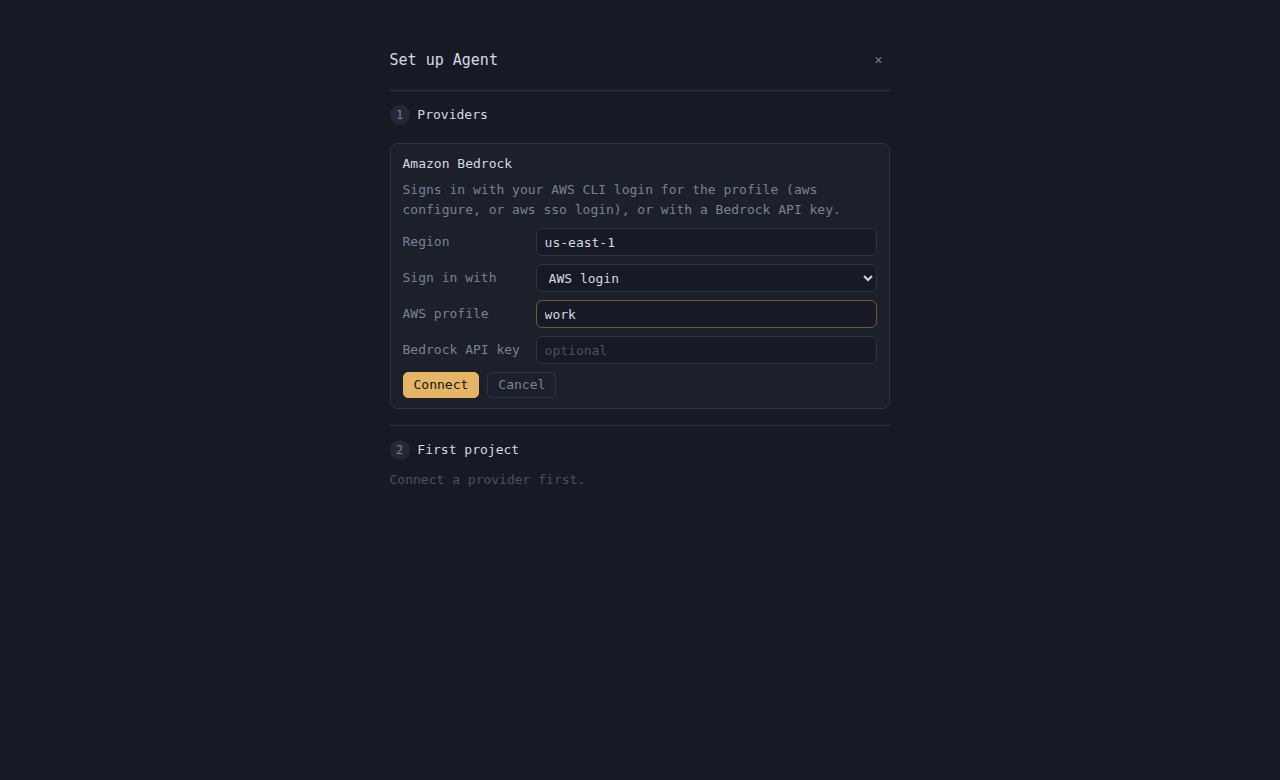
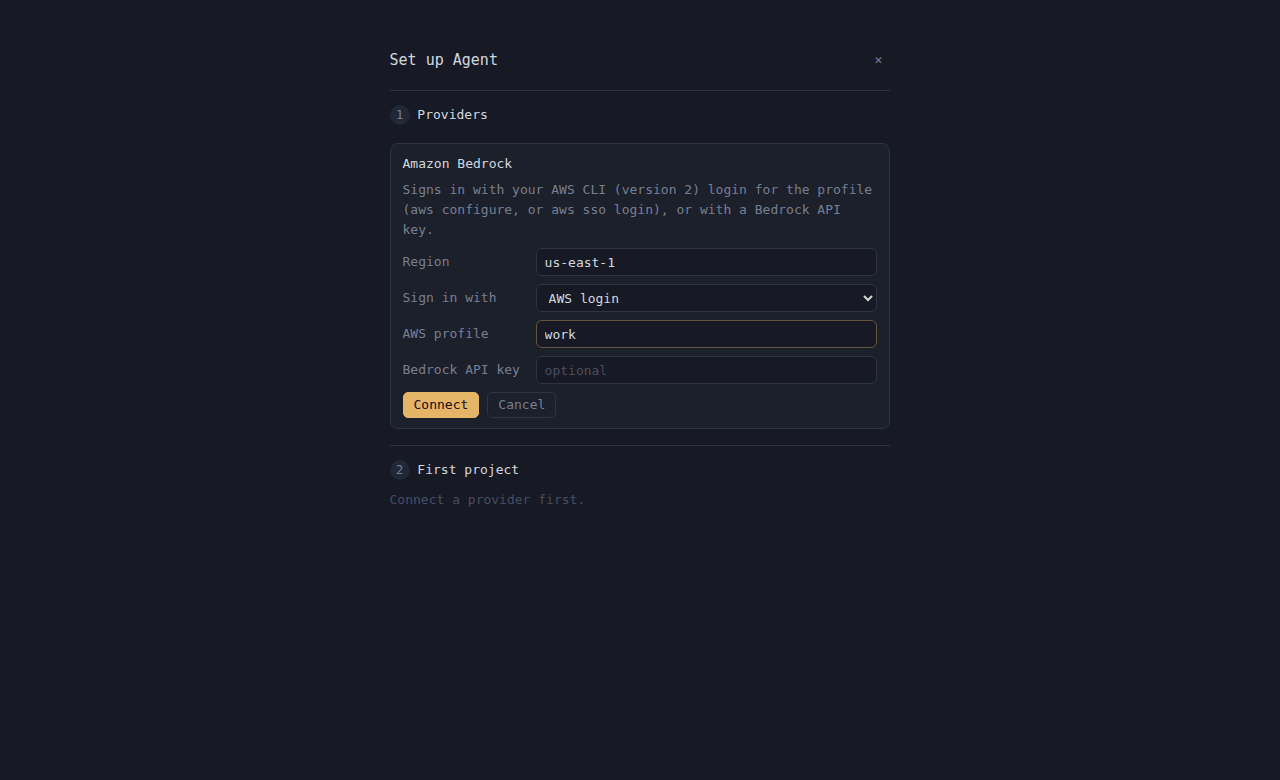
Bedrock: say plainly when the aws CLI is too old to export keys (#70)
* Bedrock: say plainly when the aws CLI is too old to export keys

AWS CLI version 1 (and 2 before 2.9) has no `aws configure
export-credentials`, so it answers with its usage text, which Setup showed
as the reason. The reason now names the CLI's version and says to install
AWS CLI version 2. Setup's Bedrock hint says it takes version 2.

Claude-Session: https://claude.ai/code/session_016xCau6n7z1SXQnjem89Cut

* Bedrock: name a too-old CLI only when its version says so, within the same bound

Claude-Session: https://claude.ai/code/session_016xCau6n7z1SXQnjem89Cut

* BEDROCK: pin the AWS CLI 2.9 cutoff to its changelogs

Claude-Session: https://claude.ai/code/session_016xCau6n7z1SXQnjem89Cut

---------

Changed region(s): [[0.3125, 0.2154, 0.6875, 0.6462]]

diff --git a/app/ui/app.js b/app/ui/app.js
@@ -1855,7 +1855,7 @@ function detach() { save(); Daemon.close(); }
 // is no default model: each project or agent is given one when it is made, from any provider.
 // Onboarding is this screen opened on its own when no provider is set up; Settings is the same
 // screen opened from the sidebar.
-const AWS = 'Signs in with your AWS CLI login for the profile (aws configure, or aws sso login), or with a Bedrock API key.';
+const AWS = 'Signs in with your AWS CLI (version 2) login for the profile (aws configure, or aws sso login), or with a Bedrock API key.';
 // A field that is `local` is the form's own choice, never saved.
 const BEDROCK = [
   { key: 'AWS_REGION', label: 'Region', hint: 'us-east-1', required: true },

diff --git a/src/provider/aws.rs b/src/provider/aws.rs
@@ -390,12 +390,13 @@ pub async fn payload(body: impl Stream<Item = std::io::Result<Bytes>>) -> Result
 /// never becomes a diagnostic; its stderr is the CLI's own explanation.
 async fn resolve(argv: &[String]) -> Result<Keys> {
     let unavailable = |why: String| Error::with("provider_aws_credentials_unavailable", why);
+    let deadline = tokio::time::Instant::now() + RESOLVE_TIMEOUT;
     let mut command = tokio::process::Command::new(&argv[0]);
     command
         .args(&argv[1..])
         .stdin(std::process::Stdio::null())
         .kill_on_drop(true);
-    let output = tokio::time::timeout(RESOLVE_TIMEOUT, command.output())
+    let output = tokio::time::timeout_at(deadline, command.output())
         .await
         .map_err(|_| unavailable("aws configure export-credentials timed out".into()))?
         .map_err(|error| {
@@ -408,6 +409,16 @@ async fn resolve(argv: &[String]) -> Result<Keys> {
         })?;
     if !output.status.success() {
         let stderr = String::from_utf8_lossy(&output.stderr);
+        // A CLI without the export (version 1, or 2 before 2.9) answers with
+        // its usage text, which says nothing of what to do. Its version,
+        // asked within the same bound, says whether that is what happened.
+        if stderr.contains("Invalid choice")
+            && let Some(version) = version(&argv[0], deadline).await.filter(|v| too_old(v))
+        {
+            return Err(unavailable(format!(
+                "{version} on PATH cannot export credentials: install AWS CLI version 2 (2.9 or later)"
+            )));
+        }
         let reason = stderr.trim();
         return Err(unavailable(if reason.is_empty() {
             format!("aws configure export-credentials exited {}", output.status)
@@ -417,6 +428,38 @@ async fn resolve(argv: &[String]) -> Result<Keys> {
     }
     parse_process(&output.stdout)
         .ok_or_else(|| unavailable("aws configure export-credentials printed no keys".into()))
+}
+
+/// What `aws --version` says it is (`aws-cli/1.22.34`), if it says so by
+/// `deadline`.
+async fn version(aws: &str, deadline: tokio::time::Instant) -> Option<String> {
+    let mut command = tokio::process::Command::new(aws);
+    command
+        .arg("--version")
+        .stdin(std::process::Stdio::null())
+        .kill_on_drop(true);
+    let output = tokio::time::timeout_at(deadline, command.output())
+        .await
+        .ok()?
+        .ok()?;
+    // Version 1 on Python 2 printed it to stderr.
+    [output.stdout, output.stderr].iter().find_map(|text| {
+        String::from_utf8_lossy(text)
+            .split_whitespace()
+            .find(|word| word.starts_with("aws-cli/"))
+            .map(str::to_owned)
+    })
+}
+
+/// Whether `aws-cli/X.Y.Z` predates `aws configure export-credentials`,
+/// which came in 2.9.
+fn too_old(version: &str) -> bool {
+    let mut parts = (version
+        .strip_prefix("aws-cli/")
+        .unwrap_or_default()
+        .split('.'))
+    .map(|part| part.parse::<u32>().ok());
+    matches!((parts.next().flatten(), parts.next().flatten()), (Some(major), Some(minor)) if (major, minor) < (2, 9))
 }
 
 /// The `credential_process` JSON: version 1, the key pair, an optional
@@ -721,6 +764,56 @@ echo '{{"Version":1,"AccessKeyId":"LATE","SecretAccessKey":"S"}}'"#,
         let aws = Arc::new(aws);
         std::fs::write(&ready, "").unwrap();
         assert_eq!(aws.current().await.unwrap().access, "LATE");
+        std::fs::remove_dir_all(&dir).unwrap();
+    }
+
+    /// AWS CLI version 1 has no credential export and answers with its usage
+    /// text; the reason says which CLI it is and what it takes instead.
+    #[cfg(unix)]
+    #[tokio::test]
+    async fn a_cli_without_the_export_is_named_not_quoted() {
+        use std::os::unix::fs::PermissionsExt;
+        let dir = std::env::temp_dir().join(format!("agent-aws-v1-{}", std::process::id()));
+        std::fs::create_dir_all(&dir).unwrap();
+        let aws = dir.join("aws");
+        // What aws-cli 1.x prints, trimmed of its list of choices.
+        std::fs::write(
+            &aws,
+            r#"#!/bin/sh
+if [ "$1" = --version ]; then echo 'aws-cli/1.22.34 Python/3.9.6 Darwin/23.6.0 botocore/1.24.0'; exit 0; fi
+printf 'usage: \rNote: AWS CLI version 2, the latest major version of the AWS CLI, is now stable and recommended for general use.\n\nusage: aws [options] <command> <subcommand> [<subcommand> ...] [parameters]\naws: error: argument subcommand: Invalid choice, valid choices are:\n\nadd-model | get\n' >&2
+exit 252
+"#,
+        )
+        .unwrap();
+        std::fs::set_permissions(&aws, std::fs::Permissions::from_mode(0o755)).unwrap();
+        let mut argv = AWS_CLI.map(str::to_owned);
+        argv[0] = aws.display().to_string();
+        let error = resolve(&argv).await.unwrap_err();
+        assert_eq!(error.code, "provider_aws_credentials_unavailable");
+        assert_eq!(
+            error.detail.as_deref(),
+            Some(
+                "aws-cli/1.22.34 on PATH cannot export credentials: install AWS CLI version 2 (2.9 or later)"
+            )
+        );
+        // A current CLI whose profile's own helper says the same keeps what
+        // it said.
+        let current = std::fs::read_to_string(&aws)
+            .unwrap()
+            .replace("1.22.34", "2.31.4");
+        std::fs::write(&aws, current).unwrap();
+        let error = resolve(&argv).await.unwrap_err();
+        assert!(error.detail.unwrap().starts_with("usage: "));
+        for (version, old) in [
+            ("aws-cli/1.44.2", true),
+            ("aws-cli/2.8.13", true),
+            ("aws-cli/2.9.0", false),
+            ("aws-cli/2.31.4", false),
+            ("aws-cli/x", false),
+        ] {
+            assert_eq!(too_old(version), old, "{version}");
+        }
         std::fs::remove_dir_all(&dir).unwrap();
     }
 

diff --git a/docs/BEDROCK.md b/docs/BEDROCK.md
@@ -1,7 +1,8 @@
 # Amazon Bedrock as a provider
 
 Surveyed 2026-09-22 and revised 2026-09-25 against AWS, Anthropic and OpenAI
-documentation, then run live on 2026-09-25. Facts are labelled: **documented**
+documentation, then run live on 2026-09-25; the AWS CLI version the
+credential export needs was checked 2026-09-28. Facts are labelled: **documented**
 cites a page, **source** cites this repository, **observed** comes from the
 [live run](#the-live-run), **unverified** is a hypothesis still open.
 
@@ -50,7 +51,10 @@ same requests. The AWS SDK's signer and credential chain (`aws-sigv4`,
 `aws-config`) measured 39 more crates, before the HTTP client its SSO and
 instance-role providers need; instead,
 credentials resolve in the chain's own order: static environment keys first,
-then the AWS CLI's `configure export-credentials`, which is the chain itself
+then the AWS CLI's `configure export-credentials` (**documented**: added in
+AWS CLI 2.9.0 and absent from version 1's changelog; an older CLI answers
+with its usage text, so the reason names its version and what to install
+instead), which is the chain itself
 (profiles, SSO, assumed roles, container and instance roles) in the standard
 `credential_process` format. Temporary keys are re-resolved five minutes before
 expiry by one background run while they keep signing, so no call waits on the
@@ -203,3 +207,7 @@ Observed 2026-09-22 to 2026-09-25.
 - [OpenAI models in Amazon Bedrock](https://developers.openai.com/api/docs/guides/amazon-bedrock)
 - botocore 1.43.102 `auth.py` and the bedrock-runtime service model, read for
   how it signs payloads.
+- AWS CLI changelogs, read 2026-09-28: [version 2 at 488c6ee](https://github.com/aws/aws-cli/blob/488c6eeeb0e307bf3ec52c68f28ecc34b97b7cfa/CHANGELOG.rst)
+  lists "Add `aws configure export-credentials` command" under 2.9.0;
+  [version 1 at 4a54791](https://github.com/aws/aws-cli/blob/4a54791df2da35778bca1325f71b1cb0b4ba770a/CHANGELOG.rst)
+  never mentions it.

diff --git a/docs/APP.md b/docs/APP.md
@@ -64,6 +64,12 @@ one provider.
 
 ![Connecting Amazon Bedrock](app/setup-bedrock.png)
 
+AWS login takes AWS CLI version 2 (2.9 or later), whose `aws configure
+export-credentials` hands the profile's keys to the daemon. An older CLI cannot,
+and Setup says so with the version it found.
+
+![Bedrock with an AWS CLI that is too old](app/setup-bedrock-old-cli.png)
+
 Once a provider answers, the first project takes a folder and a model, listed
 under its provider; nothing is chosen for you.
 
